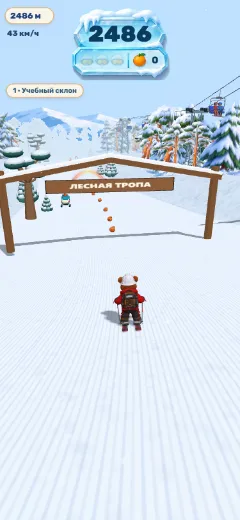
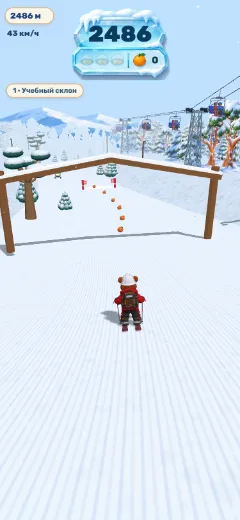
Tune night visibility and evening fireworks, refresh in-game review frames

Changed region(s): [[0.1458, 0.1846, 1.0, 0.4615], [0.0, 0.2154, 0.2042, 0.3077], [0.0583, 0.3385, 0.1458, 0.4]]

diff --git a/docs/review/visual.html b/docs/review/visual.html
@@ -23,7 +23,7 @@
 <article id="r15"><h2>15 · Кресло подъёмника</h2><p class="choice">Текущая версия.</p><img class="ref" loading="lazy" src="cards/ref-15.webp" alt="Лист художника"><div class="shots"><a href="cards/15-0.webp" aria-label="Игровой кадр на 97 м"><img loading="lazy" src="cards/15-0.webp" alt="Склон на 97 м"></a></div><p>Кресла идут по линии подъёмника на внешней стороне трассы.</p><small>npc2.js · chair</small><nav><a href="../?preview=course&amp;seed=1911&amp;at=97&amp;lane=360">97 м</a></nav></article>
 <article id="r16"><h2>16 · Опора подъёмника</h2><p class="choice">C</p><img class="ref" loading="lazy" src="cards/ref-16.webp" alt="Лист художника"><div class="shots"><a href="cards/16-0.webp" aria-label="Игровой кадр на 97 м"><img loading="lazy" src="cards/16-0.webp" alt="Склон на 97 м"></a></div><p>Решётчатая опора и блоки шкивов.</p><small>course-kit.glb · tower16C</small><nav><a href="../?preview=course&amp;seed=1911&amp;at=97&amp;lane=360">97 м</a></nav></article>
 <article id="r17"><h2>17 · Трос подъёмника</h2><p class="choice">Текущая версия.</p><img class="ref" loading="lazy" src="cards/ref-17.webp" alt="Лист художника"><div class="shots"><a href="cards/17-0.webp" aria-label="Игровой кадр на 97 м"><img loading="lazy" src="cards/17-0.webp" alt="Склон на 97 м"></a></div><p>Трос соединяет соседние опоры.</p><small>index.html · liftAnchor</small><nav><a href="../?preview=course&amp;seed=1911&amp;at=97&amp;lane=360">97 м</a></nav></article>
-<article id="r18"><h2>18 · Фонарь</h2><p class="choice">A / B / C</p><img class="ref" loading="lazy" src="cards/ref-18.webp" alt="Лист художника"><div class="shots"><a href="cards/18-0.webp" aria-label="Игровой кадр на 15001 м"><img loading="lazy" src="cards/18-0.webp" alt="Склон на 15001 м"></a><a href="cards/18-1.webp" aria-label="Игровой кадр на 15021 м"><img loading="lazy" src="cards/18-1.webp" alt="Склон на 15021 м"></a><a href="cards/18-2.webp" aria-label="Игровой кадр на 15044 м"><img loading="lazy" src="cards/18-2.webp" alt="Склон на 15044 м"></a></div><p>Вдоль обочин чередуются стальная, деревянная и двусторонняя опоры.</p><small>course-kit.glb · lamp18A/B/C</small><nav><a href="../?preview=course&amp;seed=1911&amp;at=15001">15001 м</a> <a href="../?preview=course&amp;seed=1911&amp;at=15021">15021 м</a> <a href="../?preview=course&amp;seed=1911&amp;at=15044">15044 м</a></nav></article>
+<article id="r18"><h2>18 · Фонарь</h2><p class="choice">A / B / C</p><img class="ref" loading="lazy" src="cards/ref-18.webp" alt="Лист художника"><div class="shots"><a href="cards/18-0.webp" aria-label="Игровой кадр на 70 м"><img loading="lazy" src="cards/18-0.webp" alt="Склон на 70 м"></a><a href="cards/18-1.webp" aria-label="Игровой кадр на 2555 м"><img loading="lazy" src="cards/18-1.webp" alt="Склон на 2555 м"></a><a href="cards/18-2.webp" aria-label="Игровой кадр на 15044 м"><img loading="lazy" src="cards/18-2.webp" alt="Склон на 15044 м"></a></div><p>Стальные фонари на учебном, деревянные в лесу, двойные вдоль ночного склона.</p><small>course-kit.glb · lamp18A/B/C</small><nav><a href="../?preview=course&amp;seed=1911&amp;at=70">70 м</a> <a href="../?preview=course&amp;seed=1911&amp;at=2555">2555 м</a> <a href="../?preview=course&amp;seed=1911&amp;at=15044">15044 м</a></nav></article>
 <article id="r19"><h2>19 · Заснеженная ель</h2><p class="choice">A / B / C</p><img class="ref" loading="lazy" src="cards/ref-19.webp" alt="Лист художника"><div class="shots"><a href="cards/19-0.webp" aria-label="Игровой кадр на 2507 м"><img loading="lazy" src="cards/19-0.webp" alt="Склон на 2507 м"></a><a href="cards/19-1.webp" aria-label="Игровой кадр на 2622 м"><img loading="lazy" src="cards/19-1.webp" alt="Склон на 2622 м"></a><a href="cards/19-2.webp" aria-label="Игровой кадр на 2523 м"><img loading="lazy" src="cards/19-2.webp" alt="Склон на 2523 м"></a></div><p>Высокая, широкая и наклонённая ель. Дальние ряды используют рисунки 19A/B/C.</p><small>course-kit.glb · tree19A/B/C</small><nav><a href="../?preview=course&amp;seed=1911&amp;at=2507&amp;lane=111">2507 м</a> <a href="../?preview=course&amp;seed=1911&amp;at=2622&amp;lane=119">2622 м</a> <a href="../?preview=course&amp;seed=1911&amp;at=2523&amp;lane=281">2523 м</a></nav></article>
 <article id="r20"><h2>20 · Высокая сосна</h2><p class="choice">A / B / C</p><img class="ref" loading="lazy" src="cards/ref-20.webp" alt="Лист художника"><div class="shots"><a href="cards/20-0.webp" aria-label="Игровой кадр на 2651 м"><img loading="lazy" src="cards/20-0.webp" alt="Склон на 2651 м"></a><a href="cards/20-1.webp" aria-label="Игровой кадр на 2500 м"><img loading="lazy" src="cards/20-1.webp" alt="Склон на 2500 м"></a><a href="cards/20-2.webp" aria-label="Игровой кадр на 2600 м"><img loading="lazy" src="cards/20-2.webp" alt="Склон на 2600 м"></a></div><p>Прямая, развилистая и наклонённая сосна.</p><small>course-kit.glb · tree20A/B/C</small><nav><a href="../?preview=course&amp;seed=1911&amp;at=2651&amp;lane=280">2651 м</a> <a href="../?preview=course&amp;seed=1911&amp;at=2500&amp;lane=120">2500 м</a> <a href="../?preview=course&amp;seed=1911&amp;at=2600&amp;lane=280">2600 м</a></nav></article>
 <article id="r21"><h2>21 · Молодая ель</h2><p class="choice">A / B / C</p><img class="ref" loading="lazy" src="cards/ref-21.webp" alt="Лист художника"><div class="shots"><a href="cards/21-0.webp" aria-label="Игровой кадр на 2503 м"><img loading="lazy" src="cards/21-0.webp" alt="Склон на 2503 м"></a><a href="cards/21-1.webp" aria-label="Игровой кадр на 2526 м"><img loading="lazy" src="cards/21-1.webp" alt="Склон на 2526 м"></a><a href="cards/21-2.webp" aria-label="Игровой кадр на 2626 м"><img loading="lazy" src="cards/21-2.webp" alt="Склон на 2626 м"></a></div><p>Три молодых ели у проездов и на внешней опушке.</p><small>course-kit.glb · tree21A/B/C</small><nav><a href="../?preview=course&amp;seed=1911&amp;at=2503&amp;lane=140">2503 м</a> <a href="../?preview=course&amp;seed=1911&amp;at=2526&amp;lane=267">2526 м</a> <a href="../?preview=course&amp;seed=1911&amp;at=2626&amp;lane=133">2626 м</a></nav></article>
@@ -58,10 +58,10 @@
 <article id="r50"><h2>50 · Поле гребней</h2><p class="choice">A / B / C</p><img class="ref" loading="lazy" src="cards/ref-50.webp" alt="Лист художника"><div class="shots"><a href="cards/50-0.webp" aria-label="Игровой кадр на 5040 м"><img loading="lazy" src="cards/50-0.webp" alt="Склон на 5040 м"></a><a href="cards/50-1.webp" aria-label="Игровой кадр на 5157 м"><img loading="lazy" src="cards/50-1.webp" alt="Склон на 5157 м"></a><a href="cards/50-2.webp" aria-label="Игровой кадр на 5274 м"><img loading="lazy" src="cards/50-2.webp" alt="Склон на 5274 м"></a></div><p>Три поля с разным шагом гребней и свободной центральной ложбиной.</p><small>index.html · addMogulPatch</small><nav><a href="../?preview=course&amp;seed=1911&amp;at=5040">5040 м</a> <a href="../?preview=course&amp;seed=1911&amp;at=5157">5157 м</a> <a href="../?preview=course&amp;seed=1911&amp;at=5274">5274 м</a></nav></article>
 <article id="r51"><h2>51 · Дальний посёлок</h2><p class="choice">Вариант C снят с игрового фона.</p><img class="ref" loading="lazy" src="cards/ref-51.webp" alt="Лист художника"><div class="shots"></div><p>Посёлок 51C снят со всего игрового фона, включая 85 м.</p><small>Исходный референс в архиве</small><nav></nav></article>
 <article id="r52"><h2>52 · Горы и долина</h2><p class="choice">A / B / C</p><img class="ref" loading="lazy" src="cards/ref-52.webp" alt="Лист художника"><div class="shots"><a href="cards/52-0.webp" aria-label="Игровой кадр на 13000 м"><img loading="lazy" src="cards/52-0.webp" alt="Склон на 13000 м"></a><a href="cards/52-1.webp" aria-label="Игровой кадр на 254 м"><img loading="lazy" src="cards/52-1.webp" alt="Склон на 254 м"></a><a href="cards/52-2.webp" aria-label="Игровой кадр на 2380 м"><img loading="lazy" src="cards/52-2.webp" alt="Склон на 2380 м"></a></div><p>Три силуэта формируют панораму. Повороты камеры открывают разные стороны долины.</p><small>art/slope/ridge-52a/b/c.webp</small><nav><a href="../?preview=course&amp;seed=1911&amp;at=13000">13000 м</a> <a href="../?preview=course&amp;seed=1911&amp;at=254">254 м</a> <a href="../?preview=course&amp;seed=1911&amp;at=2380">2380 м</a></nav></article>
-<article id="r53"><h2>53 · Полотно трассы</h2><p class="choice">A / B / C</p><img class="ref" loading="lazy" src="cards/ref-53.webp" alt="Лист художника"><div class="shots"><a href="cards/53-0.webp" aria-label="Игровой кадр на 85 м"><img loading="lazy" src="cards/53-0.webp" alt="Склон на 85 м"></a><a href="cards/53-1.webp" aria-label="Игровой кадр на 5040 м"><img loading="lazy" src="cards/53-1.webp" alt="Склон на 5040 м"></a><a href="cards/53-2.webp" aria-label="Игровой кадр на 7650 м"><img loading="lazy" src="cards/53-2.webp" alt="Склон на 7650 м"></a></div><p>Синие маркеры на учебной трассе, защитные сетки на буграх, голубые линии в парке.</p><small>index.html · fitPlane</small><nav><a href="../?preview=course&amp;seed=1911&amp;at=85">85 м</a> <a href="../?preview=course&amp;seed=1911&amp;at=5040">5040 м</a> <a href="../?preview=course&amp;seed=1911&amp;at=7650">7650 м</a></nav></article>
+<article id="r53"><h2>53 · Полотно трассы</h2><p class="choice">A / B / C</p><img class="ref" loading="lazy" src="cards/ref-53.webp" alt="Лист художника"><div class="shots"><a href="cards/53-0.webp" aria-label="Игровой кадр на 85 м"><img loading="lazy" src="cards/53-0.webp" alt="Склон на 85 м"></a><a href="cards/53-1.webp" aria-label="Игровой кадр на 5040 м"><img loading="lazy" src="cards/53-1.webp" alt="Склон на 5040 м"></a><a href="cards/53-2.webp" aria-label="Игровой кадр на 7650 м"><img loading="lazy" src="cards/53-2.webp" alt="Склон на 7650 м"></a></div><p>Синие маркеры на учебной трассе, открытый рельеф без сеток на буграх, голубые линии в парке.</p><small>index.html · fitPlane</small><nav><a href="../?preview=course&amp;seed=1911&amp;at=85">85 м</a> <a href="../?preview=course&amp;seed=1911&amp;at=5040">5040 м</a> <a href="../?preview=course&amp;seed=1911&amp;at=7650">7650 м</a></nav></article>
 <article id="r54"><h2>54 · Северное сияние</h2><p class="choice">A / B / C</p><img class="ref" loading="lazy" src="cards/ref-54.webp" alt="Лист художника"><div class="shots"><a href="cards/54-0.webp" aria-label="Игровой кадр на 17230 м"><img loading="lazy" src="cards/54-0.webp" alt="Склон на 17230 м"></a><a href="cards/54-1.webp" aria-label="Игровой кадр на 15840 м"><img loading="lazy" src="cards/54-1.webp" alt="Склон на 15840 м"></a><a href="cards/54-2.webp" aria-label="Игровой кадр на 15105 м"><img loading="lazy" src="cards/54-2.webp" alt="Склон на 15105 м"></a></div><p>Три цветовые ленты на разных азимутах ночного неба.</p><small>art/slope/aurora-54a/b/c.webp</small><nav><a href="../?preview=course&amp;seed=1911&amp;at=17230">17230 м</a> <a href="../?preview=course&amp;seed=1911&amp;at=15840">15840 м</a> <a href="../?preview=course&amp;seed=1911&amp;at=15105">15105 м</a></nav></article>
 <article id="r55"><h2>55 · Следы лыж</h2><p class="choice">C</p><img class="ref" loading="lazy" src="cards/ref-55.webp" alt="Лист художника"><div class="shots"><a href="cards/55-0.webp" aria-label="Игровой кадр на 85 м"><img loading="lazy" src="cards/55-0.webp" alt="Склон на 85 м"></a></div><p>Две борозды идут за лыжами во время движения. Нажмите «Поехать».</p><small>index.html · trackMesh</small><nav><a href="../?preview=course&amp;seed=1911&amp;at=85">85 м</a></nav></article>
-<article id="r56"><h2>56 · Следы йети</h2><p class="choice">C</p><img class="ref" loading="lazy" src="cards/ref-56.webp" alt="Лист художника"><div class="shots"><a href="cards/56-0.webp" aria-label="Игровой кадр на 5040 м"><img loading="lazy" src="cards/56-0.webp" alt="Склон на 5040 м"></a></div><p>Голубые отпечатки видны перед выходом йети.</p><small>art/slope/yeti-print-56c.webp</small><nav><a href="../?preview=course&amp;seed=1911&amp;at=5040&amp;lane=225">5040 м</a></nav></article>
+<article id="r56"><h2>56 · Следы йети</h2><p class="choice">C</p><img class="ref" loading="lazy" src="cards/ref-56.webp" alt="Лист художника"><div class="shots"><a href="cards/56-0.webp" aria-label="Игровой кадр на 5040 м"><img loading="lazy" src="cards/56-0.webp" alt="Склон на 5040 м"></a></div><p>Отпечатки появляются за ногами бегущего йети.</p><small>art/slope/yeti-print-56c.webp</small><nav><a href="../?preview=course&amp;seed=1911&amp;at=5040&amp;lane=225">5040 м</a></nav></article>
 <article id="r57"><h2>57 · Снежок</h2><p class="choice">B</p><img class="ref" loading="lazy" src="cards/ref-57.webp" alt="Лист художника"><div class="shots"><a href="cards/57-0.webp" aria-label="Игровой кадр на 10024 м"><img loading="lazy" src="cards/57-0.webp" alt="Склон на 10024 м"></a></div><p>Нажмите «Поехать». Снеговик на 10055 м замахивается и бросает комок.</p><small>art/slope/snowball-57b.webp + snowballGeo</small><nav><a href="../?preview=course&amp;seed=1911&amp;at=10024&amp;lane=258">10024 м</a></nav></article>
 <article id="r58"><h2>58 · Снежные частицы</h2><p class="choice">A</p><img class="ref" loading="lazy" src="cards/ref-58.webp" alt="Лист художника"><div class="shots"><a href="cards/58-0.webp" aria-label="Игровой кадр на 7650 м"><img loading="lazy" src="cards/58-0.webp" alt="Склон на 7650 м"></a></div><p>Снежная крошка появляется в момент посадки. Видна в видео обычного прыжка.</p><small>art/slope/snow-chips-58a.webp</small><nav><a href="../?preview=course&amp;seed=1911&amp;at=7650&amp;lane=145">7650 м</a></nav></article>
 <article id="r59"><h2>59 · Счёт, каски и мандарины</h2><p class="choice">B</p><img class="ref" loading="lazy" src="cards/ref-59.webp" alt="Лист художника"><div class="shots"><a href="cards/59-0.webp" aria-label="Игровой кадр на 85 м"><img loading="lazy" src="cards/59-0.webp" alt="Склон на 85 м"></a></div><p>Стеклянное табло, три значка касок, мандарин и живые счётчики.</p><small>race-hud.js + art/slope/hud-59b.webp</small><nav><a href="../?preview=course&amp;seed=1911&amp;at=85">85 м</a></nav></article>

diff --git a/docs/index.html b/docs/index.html
@@ -1199,7 +1199,7 @@ const ZONES=[
   {name:'День',sky:0xbfe0ff,fog:0xd6e8f8,near:45,far:150,hemi:1.2,sun:2.0,sunCol:0xffffff,glow:0,head:0,snow:0.2,mt:0xa9bfd6},
   {name:'Вечер',sky:0xffb48c,fog:0xf2c6ae,near:40,far:140,hemi:0.85,sun:1.6,sunCol:0xffa060,glow:0.35,head:0,snow:0.2,mt:0xb98f9c},
   {name:'Метель!',blizz:true,sky:0xc5d9e9,fog:0xd3e2ed,near:22,far:100,hemi:1.15,sun:0.8,sunCol:0xffffff,glow:0.15,head:0,snow:0.42,mt:0xa6bed1},
-  {name:'Ночное катание',night:true,sky:0x050a1c,fog:0x060c1e,near:16,far:74,hemi:0.27,sun:0.03,sunCol:0x8899ff,glow:0.4,head:130,snow:0.3,mt:0x0e1730},
+  {name:'Ночное катание',night:true,sky:0x050a1c,fog:0x060c1e,near:16,far:74,hemi:0.27,sun:0.03,sunCol:0x8899ff,glow:0.4,head:38,snow:0.3,mt:0x0e1730},
   {name:'Праздничный вечер',sky:0xe5a2a4,fog:0xf1c2ad,near:38,far:150,hemi:.94,sun:.95,sunCol:0xffba86,glow:.57,head:12,snow:.25,mt:0x99849f},
 ];
 ZONES.push({...ZONES[0],name:'Снежная доставка',sky:0xa8d4e8,fog:0xf6e7d0,near:44,far:155,sunCol:0xffe3ac,mt:0x9bb7c6});
@@ -1268,6 +1268,37 @@ function banner(txt,sub,kind){const el=$('toast');
   el.querySelector('.tt').textContent=txt;el.title=[txt,sub].filter(Boolean).join(' · ');
   toastPriority=priority;toastUntil=now+1800;el.className='toast on'+(kind?' '+kind:'');clearTimeout(toastT);toastT=setTimeout(()=>el.classList.remove('on'),1800);}
 function hideToast(){clearTimeout(toastT);toastUntil=0;$('toast').classList.remove('on');}
+// Two distant shells, separate from flakes so snowfall cannot recycle the fireworks.
+const shellTex=canvasTex(256,256,(c,w,h)=>{
+  c.translate(w/2,h/2);c.lineCap='round';
+  for(let i=0;i<32;i++){
+    const a=i*2.4,len=63+courseRoll(17,i,4)*52;
+    c.save();c.rotate(a);const g=c.createLinearGradient(0,0,len,0);
+    g.addColorStop(0,'rgba(255,234,190,0)');g.addColorStop(.68,'rgba(255,241,209,.6)');g.addColorStop(1,'white');
+    c.strokeStyle=g;c.lineWidth=i%3===0?3:2;c.beginPath();c.moveTo(9,0);c.quadraticCurveTo(len*.59,-5,len,4);c.stroke();
+    c.fillStyle='white';c.beginPath();c.arc(len+4,5,2.5,0,Math.PI*2);c.fill();c.restore();
+  }
+});
+const shells=Array.from({length:3},()=>{const s=new THREE.Sprite(new THREE.SpriteMaterial({map:shellTex,transparent:true,depthWrite:false,fog:false,toneMapped:false,blending:THREE.AdditiveBlending}));
+  s.visible=false;scene.add(s);return s;});
+function festiveSky(dt,active){
+  if(!active){for(const s of shells)s.visible=false;return;}
+  G.fw=(G.fw??0)-dt;
+  if(G.fw<=0){
+    const n=G.shellCount||0;G.shellCount=n+1;
+    const roll=k=>courseRoll(G.seed??19,n,k),shell=shells[n%3],side=n%2?1:-1;
+    // Place the burst once in world space; it remains over the valley as the rider moves.
+    const origin=new THREE.Vector3(side*(.60+.10*roll(6)),.74+.075*roll(7),.5).unproject(camera);
+    origin.sub(camera.position).normalize();shell.position.copy(camera.position).addScaledVector(origin,102);
+    shell.userData.age=0;shell.visible=true;shell.material.color.setHex([0xe34162,0xffbb44,0x498bdb][n%3]);
+    G.fw=.92+.42*roll(8);
+  }
+  for(const shell of shells){if(!shell.visible)continue;
+    const u=(shell.userData.age+=dt)/1.55;shell.visible=u<1;
+    shell.position.y-=dt*.65;shell.scale.setScalar(1+15*(1-Math.exp(-4*u)));
+    shell.material.opacity=Math.min(1,u*18)*Math.max(0,1-u*u);
+  }
+}
 const landingSpray=new THREE.Sprite(new THREE.SpriteMaterial({transparent:true,depthWrite:false}));landingSpray.visible=false;scene.add(landingSpray);
 function burst(x,y,n,c,sp){if(c==='#ffffff'&&courseTextures.chips){
   landingSpray.material.map=courseTextures.chips;landingSpray.visible=true;landingSpray.userData.start=G.t;courseGround(landingSpray.position,X(x),Z(y),.38);}
@@ -1477,15 +1508,12 @@ function rollerSection(y,diff){
   for(let r=0;r<12;r++){
     const row=y+150+r*175;
 
-    if(r%3===0){
-      addObj({type:'coin',x:mogulValley(row),y:row,r:9});
-
-    }
+    if(r%3===0)addObj({type:'coin',x:mogulValley(row),y:row,r:9});
     addObj({type:'coin',x:r%2?255:285,y:row,r:9});
   }
   if(section%4===1){
     const marker=y+920,side=courseRoll(G.seed??19,section,68)<.5?-1:1;
-    addObj({type:'tube',x:200+side*100,y:marker,marker,side,variant:variants[section%4],
+    addObj({type:'tube',x:200+side*100,y:marker,marker,side,variant:variants[Math.floor(courseRoll(G.seed??19,section,69)*4)],
       phase:.5,releaseY:marker-760,vStart:18,vCruise:76,tau:2,span:255,from:112,to:28});
   }else if(section%4===3)addSkier(y+890,265,64,{sb:true,amp:23,ph:section,lessonStart:y+890});
   return P.y1-y+60;
@@ -1608,7 +1636,6 @@ function sledSection(y){
   G.nextY+=620;
 }
 // Authored landmarks occupy a shoulder; the middle remains available in these sections.
-FACT.sideNet=()=>{const g=new THREE.Group(),net=FACT.fence({x1:0,x2:270,fenceStyle:1});net.rotation.y=Math.PI/2;g.add(net);return g;};
 const referenceStops=[
  [10072,'skier',66],[10097,'kid',325],[10123,'sitter',68],[10146,'sboyA',324],[10172,'sboyC',70],
  [10196,'sman',324],[10223,'sinstr',65],[10249,'rockA',325],[10276,'rockB',70],[10303,'cannon',345],
@@ -1878,8 +1905,7 @@ function update(dt){
   if(snNow!==G.stage){if(G.stage>=0){banner('Этап '+(snNow+1)+': '+stNow.name,stNow.sub);SFX.chime();voice('stage');}G.stage=snNow;if(snNow+1>save.meet.bestStage){save.meet.bestStage=snNow+1;persist();}}
   const Zn=ZONES[zi];
   if(!G.bonusRide){chaseTick(dt);if(G.mode!=='play')return;chalTick();}
-  if(zi===4){G.fw=(G.fw||0)-dt;if(G.fw<0){G.fw=rnd(0.5,1.2);const fx=rnd(-21,21),fz=Z(G.y)-rnd(55,82),fy=Hz(fz)+rnd(18,27);const col=['#ff4d6d','#ffd60a','#4cc9f0','#80ffdb','#ff9f1c'][Math.floor(Math.random()*5)];
-    for(let i=0;i<28;i++){const a=Math.random()*6.283,b=Math.random()*3.14;const v=rnd(4,7);emit(fx,fy,fz,Math.cos(a)*Math.sin(b)*v,Math.cos(b)*v+4,Math.sin(a)*Math.sin(b)*v,rnd(0.8,1.3),0.23,col);}if(Math.random()<0.6)noise(0.4,0.12,'lowpass',500,120,0.7,0.1);}}
+  festiveSky(dt,zi===4);
   G.wind=Zn.blizz?Math.sin(G.t*0.55)*75+Math.sin(G.t*1.7)*25:0;
   if(keys.ArrowLeft||keys.a)G.tx=clamp(p.x-70,200-inputLimit(),200+inputLimit());
   if(keys.ArrowRight||keys.d)G.tx=clamp(p.x+70,200-inputLimit(),200+inputLimit());
@@ -2098,7 +2124,7 @@ function animObjs(dt){
     if(o.type==='mogulYeti'){
       const phase=o.stride*Math.PI*10,step=Math.sin(phase);
       m.position.y+=(o.jump||0)+.14*Math.abs(step);
-      m.rotation.set(.04,(o.yaw||0)+step*.06,step*.055,'YXZ');
+      m.rotation.set(.04,Math.PI+(o.yaw||0)+step*.06,step*.055,'YXZ');
       m.userData.arms.forEach((arm,i)=>{if(arm)arm.rotation.x=step*(i?-.57:.57);});
       if(m.userData.arm)m.userData.arm.rotation.x=step*.55;
     }
@@ -2219,7 +2245,7 @@ function syncWorld(dt){
   for(const l of lamps){if(l.userData.z>pz+18)l.userData.z-=180;const z=l.userData.z;courseGround(l.position,l.userData.side*11.6,z);styleLamp(l,courseTheme(-z).stage);l.rotation.y=courseHeading(z)+Math.PI/2;}
   beamMat.opacity=night*0.35;
   if(night>0.3){const near=lamps.filter(l=>l.userData.z<pz+6&&l.userData.z>pz-50).sort((a,b)=>Math.abs(a.userData.z-pz+12)-Math.abs(b.userData.z-pz+12));
-    lampLights.forEach((L,i)=>{const l=near[i];if(!l){L.intensity=0;return;}l.updateMatrixWorld(true);L.position.set(l.userData.bx,4.6,0);l.localToWorld(L.position);L.intensity=night*45;});}
+    lampLights.forEach((L,i)=>{const l=near[i];if(!l){L.intensity=0;return;}l.updateMatrixWorld(true);L.position.set(l.userData.bx,4.6,0);l.localToWorld(L.position);L.intensity=night*25;});}
   else lampLights.forEach(L=>L.intensity=0);
   for(const t of towers){if(t.userData.z>pz+25)t.userData.z-=TOWER_STEP*TOWERN;const z=t.userData.z;courseGround(t.position,15.4,z);t.rotation.y=courseHeading(z);t.updateMatrixWorld(true);
     t.userData.cab.forEach((c,j)=>{liftAnchor(liftA,LIFT_X[j],z);liftAnchor(liftB,LIFT_X[j],z-TOWER_STEP);t.worldToLocal(liftA);t.worldToLocal(liftB);liftDelta.subVectors(liftB,liftA);const len=liftDelta.length();c.position.copy(liftA).add(liftB).multiplyScalar(0.5);c.quaternion.setFromUnitVectors(liftUp,liftDelta.multiplyScalar(1/len));c.scale.set(0.025,len,0.025);});}
@@ -2336,7 +2362,7 @@ function drawHUD(){
 }
 
 // ================= FLOW =================
-function clearWorld(){landingSpray.visible=false;lift.visible=true;tubeSky.visible=false;for(const lamp of lamps)lamp.visible=true;if(G?.tubing?.model)scene.remove(G.tubing.model);dropMogPatches(true);if(G)for(const o of G.objs)release(o);for(let i=0;i<TRACKN;i++){tmpM.makeScale(0,0,0);trackMesh.setMatrixAt(i,tmpM);}trackMesh.instanceMatrix.needsUpdate=true;
+function clearWorld(){for(const s of shells)s.visible=false;landingSpray.visible=false;lift.visible=true;tubeSky.visible=false;for(const lamp of lamps)lamp.visible=true;if(G?.tubing?.model)scene.remove(G.tubing.model);dropMogPatches(true);if(G)for(const o of G.objs)release(o);for(let i=0;i<TRACKN;i++){tmpM.makeScale(0,0,0);trackMesh.setMatrixAt(i,tmpM);}trackMesh.instanceMatrix.needsUpdate=true;
   for(const t of forest){t.userData.z=-t.slot;t.userData.x=0;}lamps.forEach((l,i)=>l.userData.z=-Math.floor(i/2)*30-(l.userData.side>0?15:0));towers.forEach((t,i)=>t.userData.z=-i*35);}
 const SPRINT_METERS=1200;
 function startGame(sprint=false,ride=null){const sled=ride==='sled';if((sled&&!sledUnlocked())||(ride==='tubing'&&!save.meet.prizeFeather))return;initAudio();if(!trackReady||HEROMODELS[hero].motionStatus!=='ready'||(sled&&!playerSled.children.length))return waitForAssets(()=>Promise.all([loadTrackAssets(),sled?loadPlayerSled():null]),()=>startGame(sprint,ride));music('run');hideToast();clearWorld();G=newGame('play');last=performance.now();G.seed=sprint?null:pickSeed();useCourse(G.seed,ride==='tubing');if(G.seed!=null){reviewSeed=G.seed;G.nextY=0;}G.sprint=sprint;

diff --git a/handoff/VISUAL-62.md b/handoff/VISUAL-62.md
@@ -21,7 +21,7 @@
 | 15 | Кресло подъёмника | Текущая версия. | Сохранена | npc2.js · chair | chair | Кресла идут по линии подъёмника на внешней стороне трассы. [97 м](http://127.0.0.1:8766/?preview=course&seed=1911&at=97&lane=360) |
 | 16 | Опора подъёмника | Заменить на C. | Подключено | course-kit.glb · tower16C | tower16C | Решётчатая опора и блоки шкивов. [97 м](http://127.0.0.1:8766/?preview=course&seed=1911&at=97&lane=360) |
 | 17 | Трос подъёмника | Текущая версия. | Сохранена | index.html · liftAnchor | cable | Трос соединяет соседние опоры. [97 м](http://127.0.0.1:8766/?preview=course&seed=1911&at=97&lane=360) |
-| 18 | Фонарь | Все три в разных местах. | Подключено | course-kit.glb · lamp18A/B/C | lamp18A / lamp18B / lamp18C | Вдоль обочин чередуются стальная, деревянная и двусторонняя опоры. [15001 м](http://127.0.0.1:8766/?preview=course&seed=1911&at=15001) · [15021 м](http://127.0.0.1:8766/?preview=course&seed=1911&at=15021) · [15044 м](http://127.0.0.1:8766/?preview=course&seed=1911&at=15044) |
+| 18 | Фонарь | Все три в разных местах. | Подключено | course-kit.glb · lamp18A/B/C | lamp18A / lamp18B / lamp18C | Стальные фонари на учебном, деревянные в лесу, двойные вдоль ночного склона. [70 м](http://127.0.0.1:8766/?preview=course&seed=1911&at=70) · [2555 м](http://127.0.0.1:8766/?preview=course&seed=1911&at=2555) · [15044 м](http://127.0.0.1:8766/?preview=course&seed=1911&at=15044) |
 | 19 | Заснеженная ель | A / B / C | Подключено | course-kit.glb · tree19A/B/C | tree19A / tree19B / tree19C | Высокая, широкая и наклонённая ель. Дальние ряды используют рисунки 19A/B/C. [2507 м](http://127.0.0.1:8766/?preview=course&seed=1911&at=2507&lane=111) · [2622 м](http://127.0.0.1:8766/?preview=course&seed=1911&at=2622&lane=119) · [2523 м](http://127.0.0.1:8766/?preview=course&seed=1911&at=2523&lane=281) |
 | 20 | Высокая сосна | A / B / C | Подключено | course-kit.glb · tree20A/B/C | tree20A / tree20B / tree20C | Прямая, развилистая и наклонённая сосна. [2651 м](http://127.0.0.1:8766/?preview=course&seed=1911&at=2651&lane=280) · [2500 м](http://127.0.0.1:8766/?preview=course&seed=1911&at=2500&lane=120) · [2600 м](http://127.0.0.1:8766/?preview=course&seed=1911&at=2600&lane=280) |
 | 21 | Молодая ель | A / B / C | Подключено | course-kit.glb · tree21A/B/C | tree21A / tree21B / tree21C | Три молодых ели у проездов и на внешней опушке. [2503 м](http://127.0.0.1:8766/?preview=course&seed=1911&at=2503&lane=140) · [2526 м](http://127.0.0.1:8766/?preview=course&seed=1911&at=2526&lane=267) · [2626 м](http://127.0.0.1:8766/?preview=course&seed=1911&at=2626&lane=133) |
@@ -56,10 +56,10 @@
 | 50 | Поле гребней | A / B / C | Подключено | index.html · addMogulPatch | рельеф | Три поля с разным шагом гребней и свободной центральной ложбиной. [5040 м](http://127.0.0.1:8766/?preview=course&seed=1911&at=5040) · [5157 м](http://127.0.0.1:8766/?preview=course&seed=1911&at=5157) · [5274 м](http://127.0.0.1:8766/?preview=course&seed=1911&at=5274) |
 | 51 | Дальний посёлок | Вариант C снят с игрового фона. | Убрана по решению | Исходный референс в архиве | Слой снят | Посёлок 51C снят со всего игрового фона, включая 85 м.  |
 | 52 | Горы и долина | A / B / C | Подключено | art/slope/ridge-52a/b/c.webp | ridge-52a.webp / ridge-52b.webp / ridge-52c.webp | Три силуэта формируют панораму. Повороты камеры открывают разные стороны долины. [13000 м](http://127.0.0.1:8766/?preview=course&seed=1911&at=13000) · [254 м](http://127.0.0.1:8766/?preview=course&seed=1911&at=254) · [2380 м](http://127.0.0.1:8766/?preview=course&seed=1911&at=2380) |
-| 53 | Полотно трассы | Все три для разных локаций. | Подключено | index.html · fitPlane | полотно | Синие маркеры на учебной трассе, защитные сетки на буграх, голубые линии в парке. [85 м](http://127.0.0.1:8766/?preview=course&seed=1911&at=85) · [5040 м](http://127.0.0.1:8766/?preview=course&seed=1911&at=5040) · [7650 м](http://127.0.0.1:8766/?preview=course&seed=1911&at=7650) |
+| 53 | Полотно трассы | Все три для разных локаций. | Подключено | index.html · fitPlane | полотно | Синие маркеры на учебной трассе, открытый рельеф без сеток на буграх, голубые линии в парке. [85 м](http://127.0.0.1:8766/?preview=course&seed=1911&at=85) · [5040 м](http://127.0.0.1:8766/?preview=course&seed=1911&at=5040) · [7650 м](http://127.0.0.1:8766/?preview=course&seed=1911&at=7650) |
 | 54 | Северное сияние | A / B / C | Подключено | art/slope/aurora-54a/b/c.webp | aurora-54a.webp / aurora-54b.webp / aurora-54c.webp | Три цветовые ленты на разных азимутах ночного неба. [17230 м](http://127.0.0.1:8766/?preview=course&seed=1911&at=17230) · [15840 м](http://127.0.0.1:8766/?preview=course&seed=1911&at=15840) · [15105 м](http://127.0.0.1:8766/?preview=course&seed=1911&at=15105) |
 | 55 | Следы лыж | C | Подключено | index.html · trackMesh | двойной след | Две борозды идут за лыжами во время движения. Нажмите «Поехать». [85 м](http://127.0.0.1:8766/?preview=course&seed=1911&at=85) |
-| 56 | Следы йети | C | Подключено | art/slope/yeti-print-56c.webp | отпечатки | Голубые отпечатки видны перед выходом йети. [5040 м](http://127.0.0.1:8766/?preview=course&seed=1911&at=5040&lane=225) |
+| 56 | Следы йети | C | Подключено | art/slope/yeti-print-56c.webp | отпечатки | Отпечатки появляются за ногами бегущего йети. [5040 м](http://127.0.0.1:8766/?preview=course&seed=1911&at=5040&lane=225) |
 | 57 | Снежок | B | Подключено | art/slope/snowball-57b.webp + snowballGeo | ball · 10055 м | Нажмите «Поехать». Снеговик на 10055 м замахивается и бросает комок. [10024 м](http://127.0.0.1:8766/?preview=course&seed=1911&at=10024&lane=258) |
 | 58 | Снежные частицы | A | Подключено | art/slope/snow-chips-58a.webp | снежная крошка | Снежная крошка появляется в момент посадки. Видна в видео обычного прыжка. [7650 м](http://127.0.0.1:8766/?preview=course&seed=1911&at=7650&lane=145) |
 | 59 | Счёт, каски и мандарины | B | Подключено | race-hud.js + art/slope/hud-59b.webp | HUD | Стеклянное табло, три значка касок, мандарин и живые счётчики. [85 м](http://127.0.0.1:8766/?preview=course&seed=1911&at=85) |

diff --git a/Belaya_Sova_VSCode/GAME_DESIGN.md b/Belaya_Sova_VSCode/GAME_DESIGN.md
@@ -26,7 +26,16 @@
 
 **Решение по 51C.** Рисованный посёлок снят со всего игрового фона, включая открытый участок на 85 м. Карточка сохраняется в архиве решений. При следующей сборке окружения используем панорамы 52A/B/C.
 
-Перед въездами в лес, на бугры и в сноупарк стоят читаемые со спуска указатели. Арка отмечает точную границу этапа.
+Перед въездами в лес, на бугры и в сноупарк стоят читаемые со спуска указатели. Арка отмечает точную границу этапа; название после указателя не повторяем. У наземных ворот два флага и цвет на снегу, без светящейся дуги сверху.
+
+### Характер обычных этапов · решение от 20 ноября
+
+- Лес: отдельные стволы входят в линию езды. Мандарины показывают прогалину. В лесу есть лыжники, сноубордисты и патруль; редкие небольшие трамплины и снежные кучи занимают часть ширины.
+- Бугры: на гребне управление слабее и рельеф сносит вбок; ложбина спокойнее. Боковых сеток и табличек нет. Йети может пересечь склон, бежать вверх или вниз и перепрыгивать часть пути. След появляется за йети только там, где ноги касаются снега. В перерывах встречаются плюшки и сноубордисты.
+- Сноупарк: по отдельной полосе едут лыжники и сноубордисты. Низкий трамплин вводит в воздушную линию: заехать по центру, собрать мандарины, пройти кольцо и приземлиться. Бокс на снегу даёт очки за проезд и не подбрасывает. Для золотого пера нужна отдельная высокая линия с двумя трюками.
+- Снегодуйки учебного склона и вершины направлены от обочины поперёк трассы. Аптечка стоит в зоне помощи рядом с сидящим человеком. Собаки петляют в пределах одной стороны. Снеговики бросают снежки, в том числе в учебном и бонусном заездах.
+- Чёрная трасса: быстрые связки из трёх смещённых групп препятствий; заранее переложись в проход, отмеченный мандаринами. На ночной чаще всего выбегает йети; между встречами появляется встречный ратрак с двумя светящимися фарами. Двойные фонари ориентированы вдоль склона. Новогодний городок — вечер, салюты вдалеке.
+- Борт проезжаем: допускается выезд за край. Если есть каска, теряем одну и возвращаемся на трассу; без каски падение заканчивает заезд.
 
 ## Учебный склон, сноупарк и бонусы
 

diff --git a/handoff/STATUS.md b/handoff/STATUS.md
@@ -2,6 +2,16 @@
 
 Дата: 20 ноября 2026 года (Asia/Sakhalin).
 
+## Локальные правки этапов после теста в Telegram · 20 ноября
+
+Рабочая ветка `local/training-slope`, игровая логика — `4ab164a`. Эти изменения локальные; в Telegram пока опубликована прежняя версия `2026-11-20a`. [Обычный старт, seed 1911](http://127.0.0.1:8766/?seed=1911) · [снимки игровой камеры](http://127.0.0.1:8766/review/stage-revision.jpg).
+
+Указатели 42–44 оставлены, названия на следующих за ними арках сняты. Наземные ворота на 10% уже, без верхней дуги; размер плюшек уменьшен на 16% вместе с порогом столкновения. Расстановка учитывает занимаемое место у деревьев, камней, трамплинов, сеток, флагов и стоящих людей. Переработаны учебный, лес, бугры, парк, чёрная и ночная трассы, оформление праздничного вечера. Актуальные правила — в GAME_DESIGN.md.
+
+Seed 1911, точки для осмотра: 70 м — учебная пушка; 278 м — подъезд к аптечке и пострадавшему; 2555 м — лесной объезд; 5035 м — йети; 5150 м — плюшка; 7510 м — трамплин; 10289 м — пушка вершины; 12504 м — чёрная связка; 15024 м — ночной йети; 15215 м — фары; 17525 м — вечер (нажать «Поехать» для салюта).
+
+Chrome 375×812: обычный старт на 1911/1927 за обоих героев; `check-ordinary-run.cjs` проводит тестового лыжника через лес с управлением и включёнными столкновениями. `check-slope-revision.cjs` проверяет выезд, списание одной каски, возврат, расстановку и освещение. `check-stages.cjs` проверяет объезд/столкновения с йети и патрулём, рельеф, кольца, боксы и приземление. Прошли также проверки управления, плюшек и открытия бонуса золотым пером. Проверка выполнена в браузере, не на физическом телефоне.
+
 ## Сборка для теста в Telegram · `2026-11-20a`
 
 В сборку вошли исправления обычного старта из меню: люди на учебном склоне, просветы в лесу, указатели и арки этапов. Посёлок 51C снят. Контрольный seed: `1911`. Точка входа остаётся прежней: `https://t.me/belaya_sovabot/play`.
